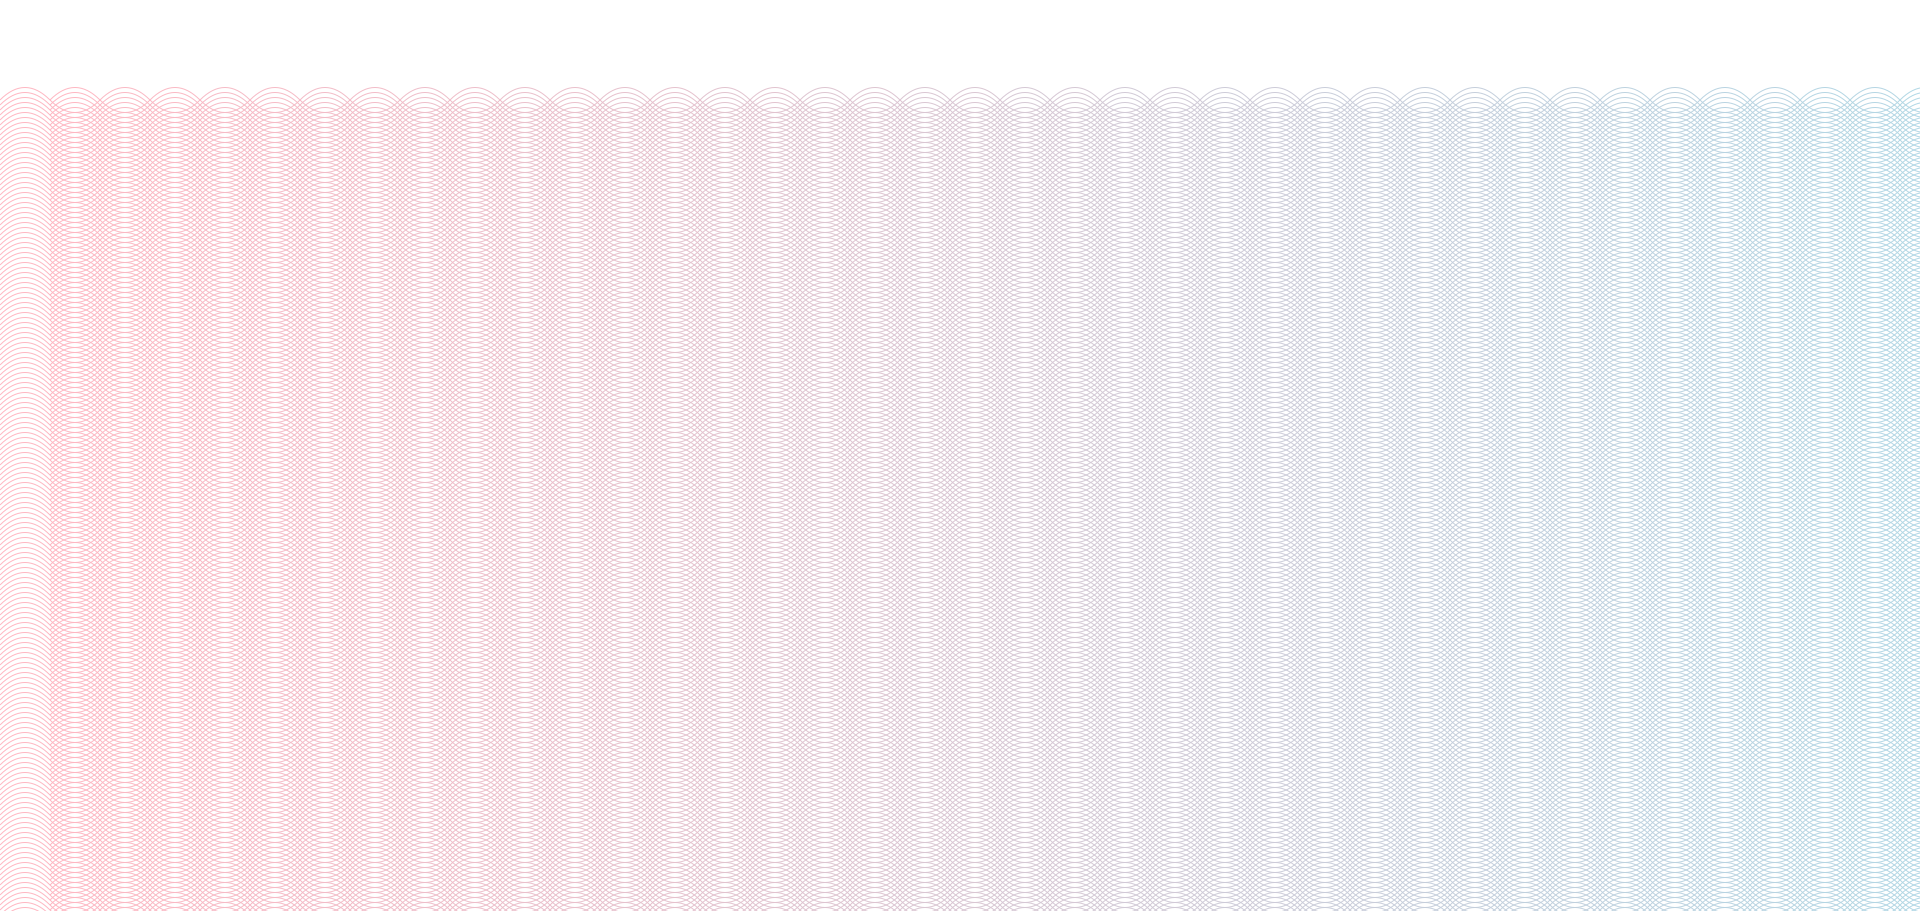
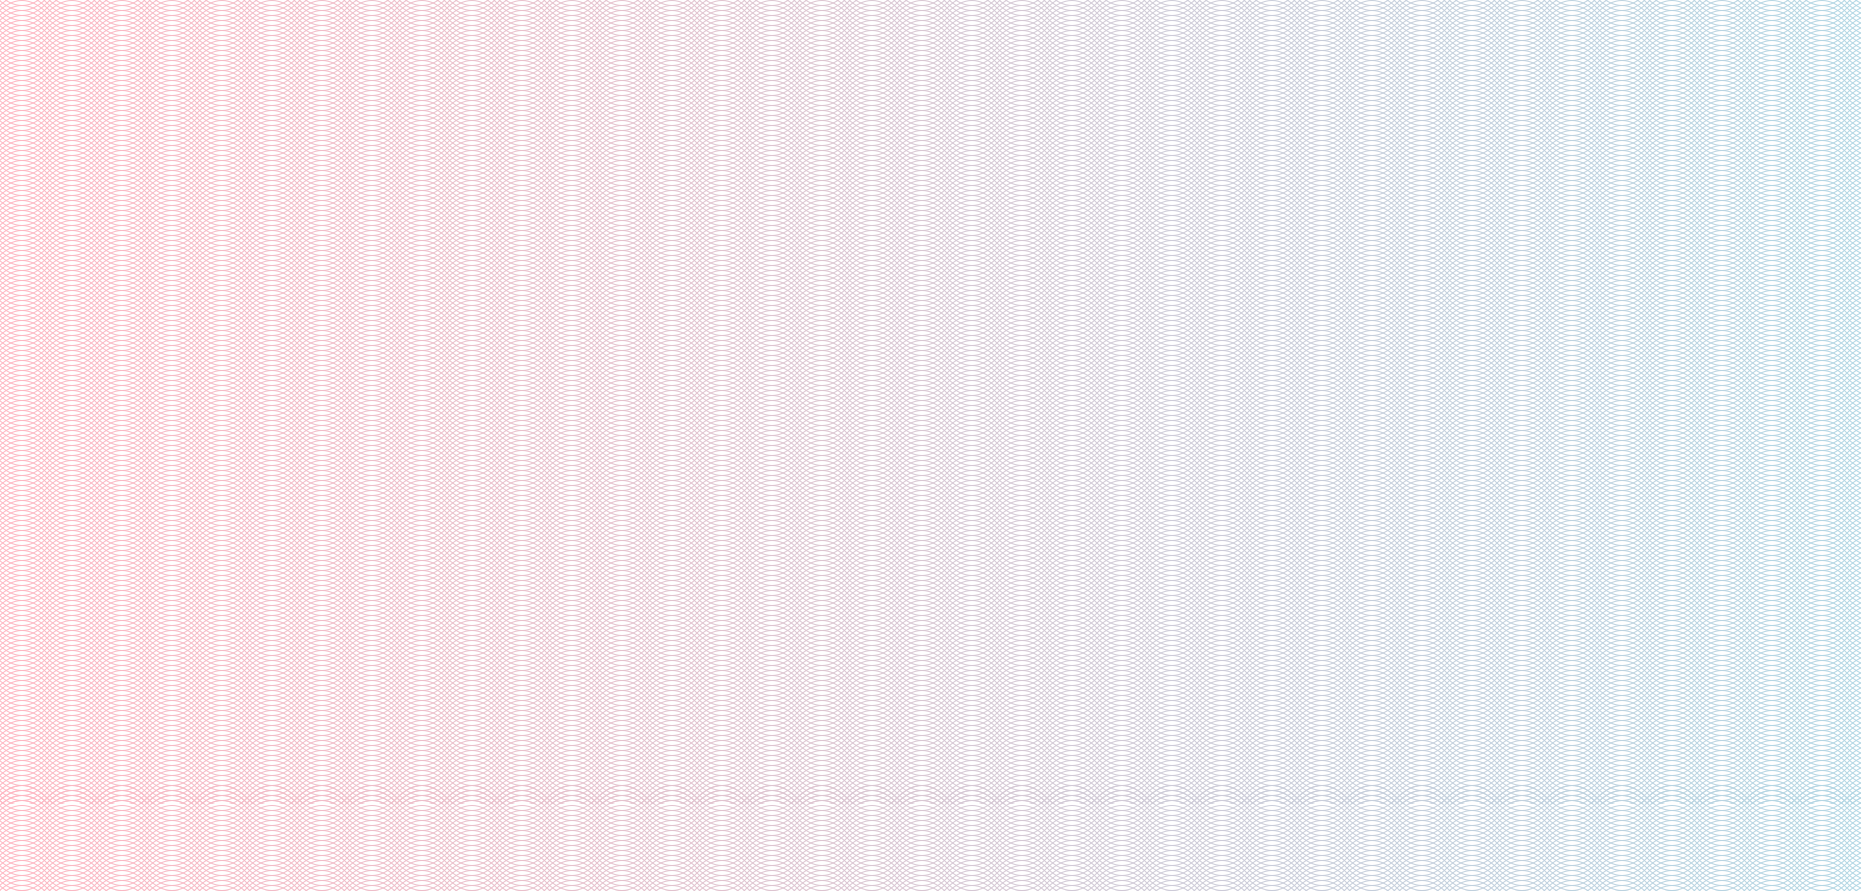
bg fix, responsiveness fix

diff --git a/src/pages/manifesto.jsx b/src/pages/manifesto.jsx
@@ -16,18 +16,23 @@ const Manifesto = () => {
 <li>recreating existing failures,</li>
 <li>and hence, are more and more part of the problem.</li>
 </ul>
+
 <p><strong>The blockchain space is going through a multi-dimensional identity crisis.</strong></p>
 <blockquote>
-<p><em>&quot;It is not surprising that the crypto space has also become overrun by unscrupulous marketing, theft, and scams. The problem is real, but it isn&#39;t a new one. Capitalism has ruined crypto, but that shouldn&#39;t be the end of it.&quot;</em>  </p>
-</blockquote>
-<p><em>~~~ Joshua Dávila, <a href="https://repeaterbooks.com/product/blockchain-radicals-how-capitalism-ruined-crypto-and-how-to-fix-it/">Blockchain Radicals: How Capitalism Ruined Crypto and How to Fix It</a></em></p>
+
+<p><em>&quot; It is not surprising that the crypto space has also become overrun by unscrupulous marketing, theft, and scams. The problem is real, but it isn&#39;t a new one. Capitalism has ruined crypto, but that shouldn&#39;t be the end of it.&quot;</em>  </p>
+~~~ Joshua Dávila, <a href="https://repeaterbooks.com/product/blockchain-radicals-how-capitalism-ruined-crypto-and-how-to-fix-it/">Blockchain Radicals: How Capitalism Ruined Crypto and How to Fix It</a></blockquote>
+
     
 <p>Arguably, on a philosophical level, the ecosystem lost its shared identity long ago. Do we know what we want to achieve, and are we working towards the same thing? What are our shared values? Where are the red lines? All seems a blur, and everything goes in the always-online, never-stopping economic game machine.</p>
 <blockquote>
+
 <p>&quot;The folly was in thinking that, in a system that allows for almost anything, people would *not* maximize for their own utility over believing in the mission. To be fair though (and I mean this very seriously) a lot of us aren’t exactly clear on *what* the mission is. It seems like it’s mainly a lot of people trading shitcoins and jpegs, but we’re told this isn’t what we’re trying to do.&quot;  </p>
-</blockquote>
-<pre><code>    <span class="hljs-selector-tag">_</span>~~~ <span class="hljs-selector-tag">Gwart</span>, <span class="hljs-selector-attr">[on X]</span>(<span class="hljs-attribute">https</span>:<span class="hljs-comment">//x.com/GwartyGwart/status/1729837401122406435?s=20)_</span>
-</code></pre><p>The lack of shared vision or values also results in an identity crisis in the truest sense of the word: How do we deal with identities in decentralized communities? Are personhood verification, KYC, and AML necessary evils? Or are they the hill we are going to die on?</p>
+~~~ Gwart, <a href="https://x.com/GwartyGwart/status/1729837401122406435?s=20">on X</a> </blockquote>
+
+
+
+<p>The lack of shared vision or values also results in an identity crisis in the truest sense of the word: How do we deal with identities in decentralized communities? Are personhood verification, KYC, and AML necessary evils? Or are they the hill we are going to die on?</p>
 <p><strong>On the Internet, nobody knows you&#39;re a dog — On the Blockchain, everybody sees everything.</strong>  </p>
 
 <p>And again, instead of creating solid alternatives, we seem to be part of the problem. We are developing systems with complex social graphs and are considering incorporating the <a href="https://privacyinternational.org/explainer/5126/identity-crisis-around-world">most private biometrics</a> to prove we are humans. But what for? Universal basic &quot;income&quot; that is funded through venture capital snowball systems that sustain no one except the investors?</p>
@@ -62,7 +67,6 @@ const Manifesto = () => {
 <li><strong>Libre</strong>: It will be free, both as in free speech and free lemonade.</li>
 </ul>
 <p>We may only have this one last shot. Let&#39;s conspire in Berlin and build the change we want to see!</p>
-<p><strong>ETHBerlin 4 - Identity Crisis - May 24-26, 2024</strong>Factory Görlitzer Park, Berlin</p>
 
         </div>
       </div>

diff --git a/src/pages/index.jsx b/src/pages/index.jsx
@@ -193,13 +193,13 @@ const Home = () => {
         </div>
       </nav>
       <div
-        className={`static lg:fixed flex flex-col left-0 top-0 mt-16 sm:mt-48 flex-1 ml-4 sm:ml-64 mr-4 z-10 ${
+        className={`static lg:fixed flex flex-col lg:flex-row left-0 top-0 mt-16 sm:mt-48 flex-1 ml-4 sm:ml-64 mr-4 z-10 ${
           showSidebar ? "fade-in-left " : "fade-out-left"
         }
         `}
       >
         <div
-          className="w-1/2 mr-8 p-6 text-black decorate-links"
+          className="lg:w-1/2 mr-8 p-6 text-black decorate-links"
           style={{ backgroundColor: "rgba(255, 255, 255, 0.45)" }}
         >
           <p className="mt-4">
@@ -255,7 +255,7 @@ const Home = () => {
         </div>
 
         <div
-          className="w-1/4 mr-8 p-6 text-black decorate-links flex justify-center items-center"
+          className="lg:w-1/4 mr-8 p-6 text-black decorate-links flex justify-center items-center"
           style={{ backgroundColor: "rgba(255, 255, 255, 0.45)" }}
         >
           <p className="mt-4 text-center">

diff --git a/src/styles/global.css b/src/styles/global.css
@@ -118,6 +118,7 @@ body::before {
   right: 0;
   bottom: 0;
   background-image: url("bg.png"); 
+  /* background-size: cover; */
   opacity: 0.5;
   z-index: -1;
 }
